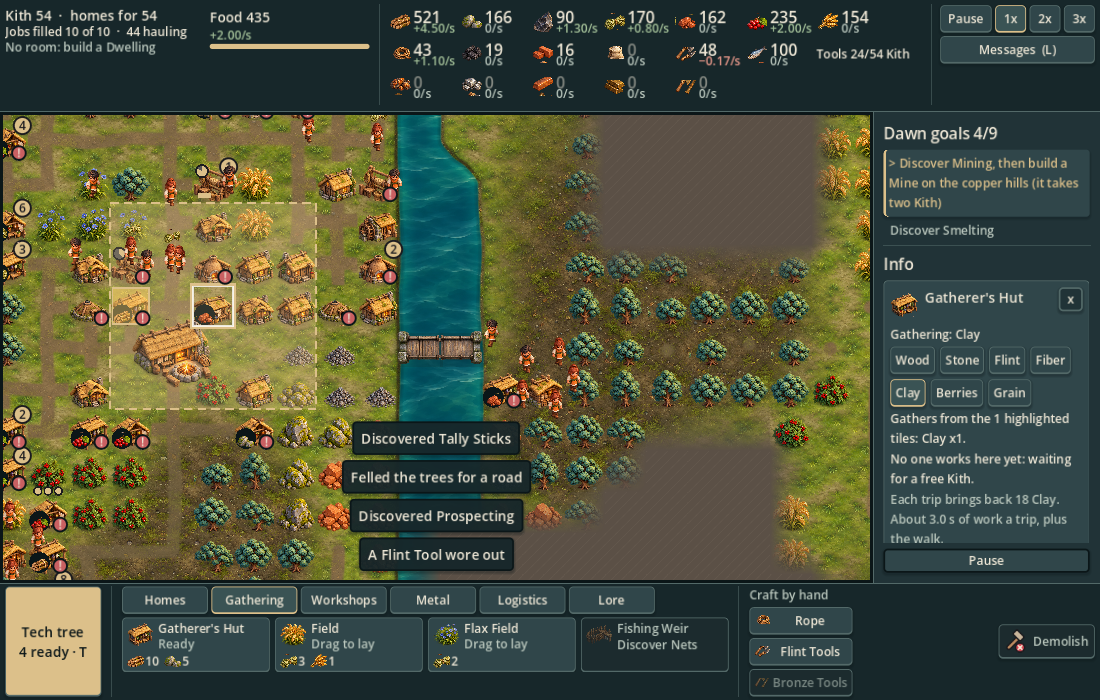
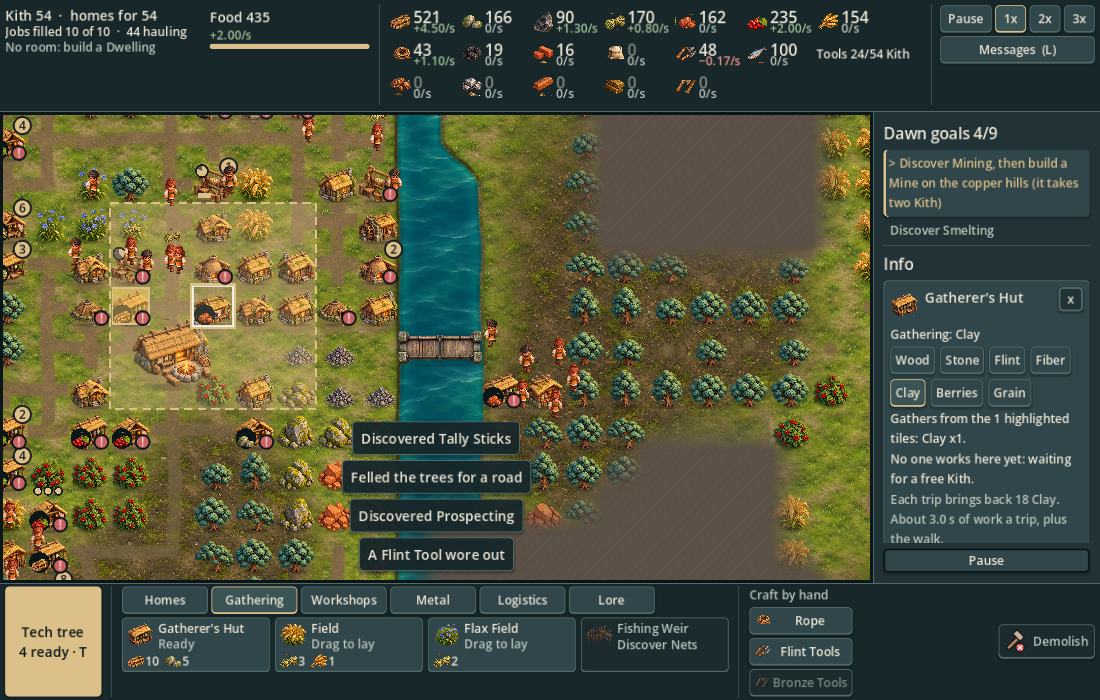
Unify research art and remaining interface theme

diff --git a/docs/design-system/mockups/miniature-interface.md b/docs/design-system/mockups/miniature-interface.md
@@ -33,3 +33,14 @@ These are viewport captures from the main scene and its existing layout harness,
 ## Scope and remaining design work
 
 This pass changes shared theming and visual hierarchy across the HUD, research, cards and selection panels. Layout and input remain the established gameplay interface. Resource-density reduction, richer contextual guidance and broader information architecture need separate gameplay UX design; this pass does not claim to resolve them. Do not add ornamental wood or parchment textures that reduce small-text contrast. No global map-scale change was made.
+
+## Whole-interface audit (2026-10-05)
+
+Research now uses miniature atlas illustrations for every tech, including the former drawn symbols, people, storage, quarry and falling star. Illustrations preserve aspect ratio in charcoal inset frames. These UI illustrations do not replace corresponding map sprites. Original generated RGBA atlases and exact built-in-tool prompts are preserved in [research asset provenance](../../../art/rendered/research-prompts.json).
+
+Lane captions use muted ochre, stone, moss and pale lavender instead of the baseline saturated colors. Both research views share brass discover/buy actions, quiet queue actions, moss completion and ember shortfalls. Hovering a dependency branch retains more context in unrelated cards. The gate uses a single brass rail instead of a double heavy frame.
+
+Shared themed scrollbars now serve research, the message log and other scroll containers. The milestone card uses the same charcoal scrim and brass action; notifications use a fine rim and ember emphasis for persistent alerts. HUD chips, resource flow detail, building/trade controls, goals, research recommendations, both era boards, messages, tooltips and the milestone card were included in the audit. Existing layouts, controls, shortcuts, research rules and save behavior remain unchanged. Dense stock strips and long fitted-board titles remain limits of the established layout; the normal tech detail panel retains full names.
+
+![Stone Age research board after the theme audit](../../art/overhaul/misty-highlands/interface/research-board-stone.png)
+![Matching milestone card](../../art/overhaul/misty-highlands/interface/milestone.png)

diff --git a/docs/art/requests.md b/docs/art/requests.md
@@ -1,6 +1,7 @@
 # Art requests
 
 ## Codex visual implementation (art and engine wiring)
+- [x] Whole-interface theme audit (Codex, 2026-10-05; PR #33): miniature research illustrations throughout both eras/views; shared brass actions, charcoal icon frames/scrollbars, muted lane colors, milestone and notification styling. Touched presentation portions of Art/Rendered/Ui, BuildBar, TechBoard/TechPanel/TechNextView, EraCard and ToastStack plus UI checks. No research, simulation or save-rule changes. See [interface specification and actual captures](../design-system/mockups/miniature-interface.md). Terrain remains on visual review hold.
 - [x] Rendered miniature pipeline (Codex, 2026-10-04; PR #33): integrated transparent atlases, all map resource families, core buildings/workshops/industry, 18 item icons and fixed-anchor walking Kith in Godot. See [engine integration and real captures](overhaul/misty-highlands/engine/README.md). Existing IDs, footprints and 48 px default remain; Godot generated import metadata. No simulation/save changes.
 - [x] Coordinated variants and connected terrain (Codex, 2026-10-04; PR #33): stable map-seeded coordinate/family and Kith-name choices, independent of simulation RNG. One cached continuous meadow, connected roads and riverbanks, single-span bridge sampling, preserved fog/selection/placement behavior.
 - [ ] Rendered animation and terrain polish (Codex): add full directional walk/work cycles and separately animated Hearth fire/water-wheel layers; extend biome/environmental variety beyond the revised terrain materials. Current four-pose walking, charcoal smoke and foliage sway are integrated. Terrain revision adds full-resolution materials, flowing water and modular bridge bank caps. Unique workshop/industry variants remain future art work; no new gameplay rules are implied.

diff --git a/art/rendered/README.md b/art/rendered/README.md
@@ -21,3 +21,7 @@ The crossing atlas has twelve modules: three horizontal wood, three horizontal s
 `meadow-ground.png`, `woodland-ground.png` and `calm-river.png` are new unmodified built-in imagegen outputs guided by the reviewed blended paintover. Exact prompts and original sources: [grounding-prompts.json](grounding-prompts.json). Godot import metadata accompanies each image. Earlier materials remain for provenance.
 
 `world_ground.gd` now caches an RGBA presentation mask: R water, G road wear, B revealed-tree density, A visible foundation wear. The shader blends visual regions and locally colored paths; foundation aprons and native contact shadows anchor subjects without changing game state. See actual captures in the [engine integration](../../docs/art/overhaul/misty-highlands/engine/README.md).
+
+## Research illustrations
+
+`research-symbols.png` and `research-landmarks.png` preserve original transparent built-in image-generation outputs. Exact prompts, reference role and source paths: [research-prompts.json](research-prompts.json). Atlas regions in `Rendered` and the presentation-only `Art.research_sprite` resolver supply all research illustrations, including former vector placeholders. Existing map sprites are unchanged. Both research views use centered aspect-preserving drawing. Godot generates the accompanying import metadata.

diff --git a/docs/design-system/decision-log.md b/docs/design-system/decision-log.md
@@ -484,3 +484,9 @@ Stage 2 of 2: the nine gated techs now do something, the gate is gone, and the e
 ## 2026-10-05: Review exact sprites with foundation patches (PR #33)
 - Codex isolated ground contact using the unchanged production sprites in a native Godot preview, rather than another full-map paintover.
 - Generated transparent meadow and woodland foundation patches remain review-only under docs/art/. Their visible edges still need blending; this study does not establish visual approval or change runtime assets.
+
+## 2026-10-05: Match the whole interface to miniature art (PR #33)
+- Codex audited the HUD, build/selection controls, research recommendations and both era boards, notifications, messages, tooltips and milestone card against the approved miniature direction.
+- All research illustrations now use miniature atlas art, preserving aspect ratio and existing icon IDs. New transparent research atlases affect UI only; original map sprites remain unchanged.
+- Unify brass primary actions, charcoal icon frames and scrollbars, muted lane accents and ember persistent alerts. Reduce excessive dependency-hover dimming and the gate's heavy double border.
+- Preserve established layout, input, progression and save behavior. Terrain quality remains a separate draft hold; technical UI validation does not constitute terrain approval.
